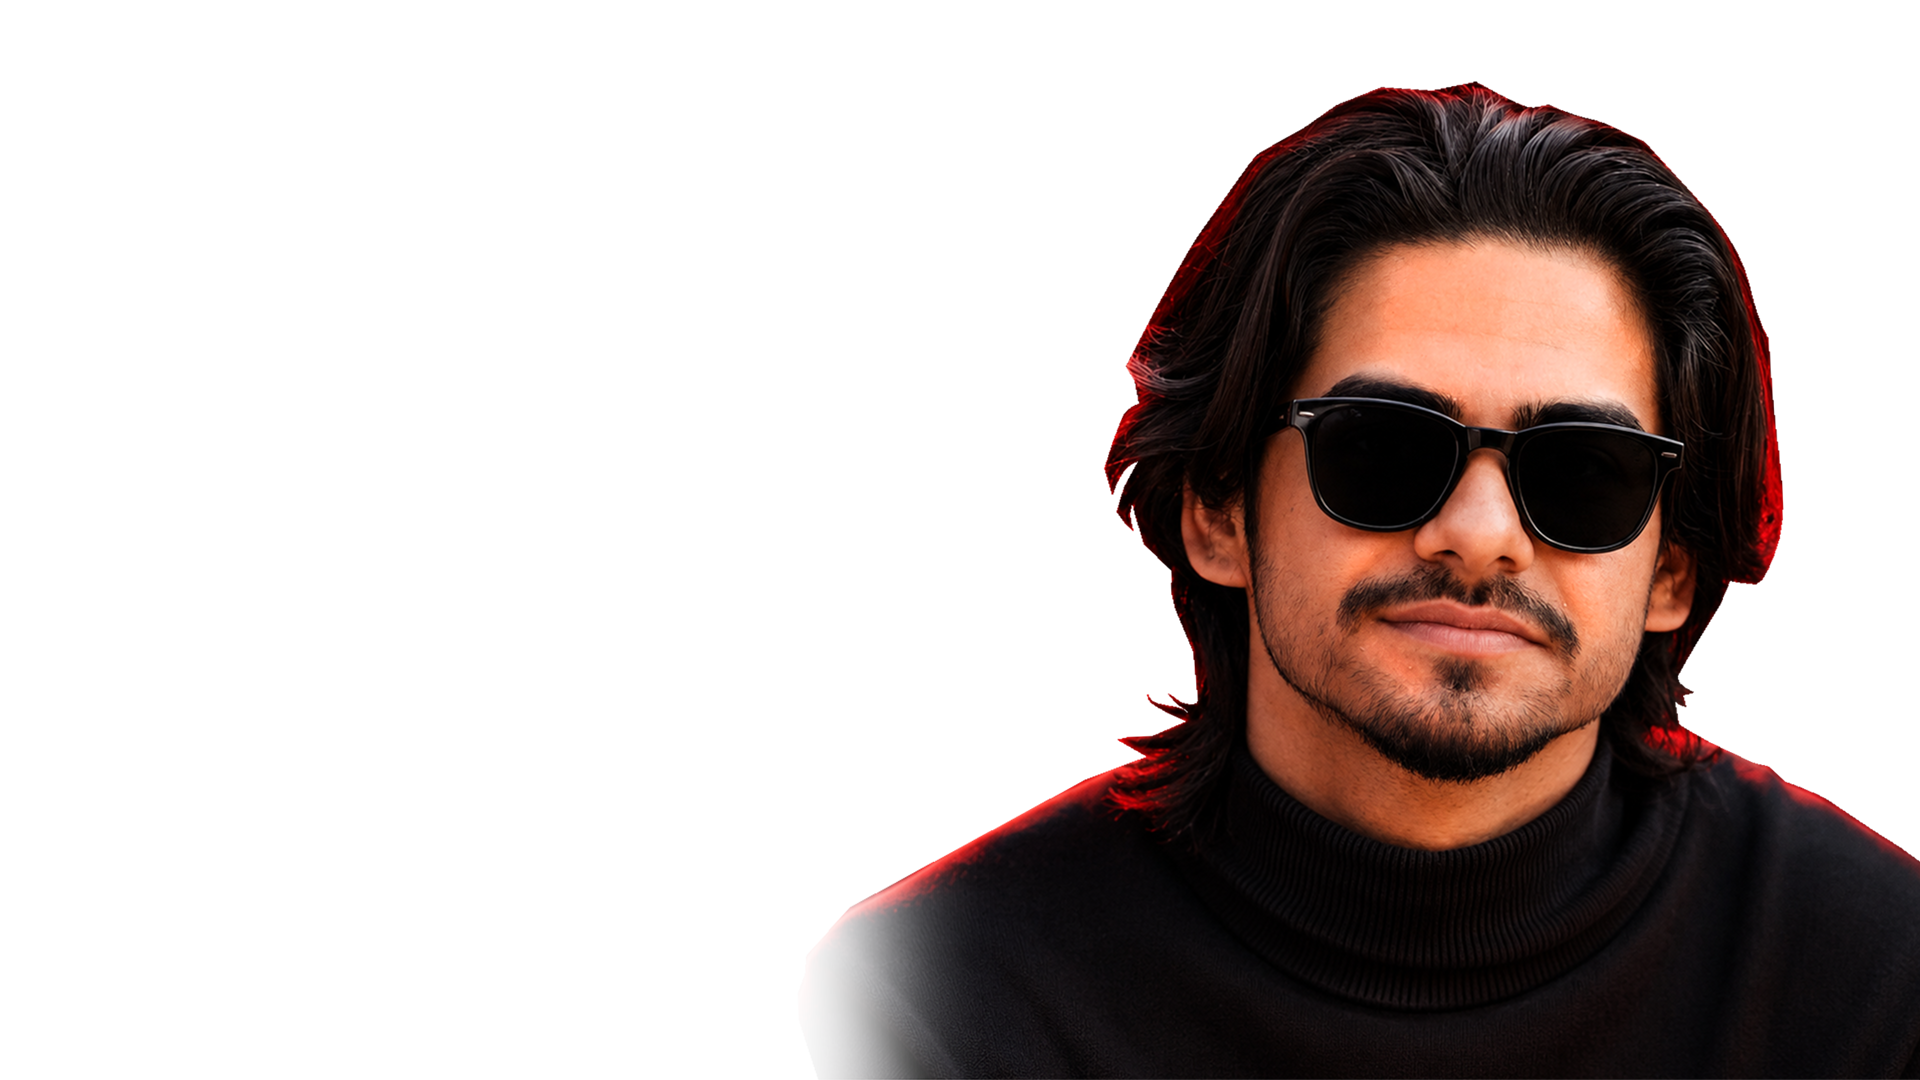
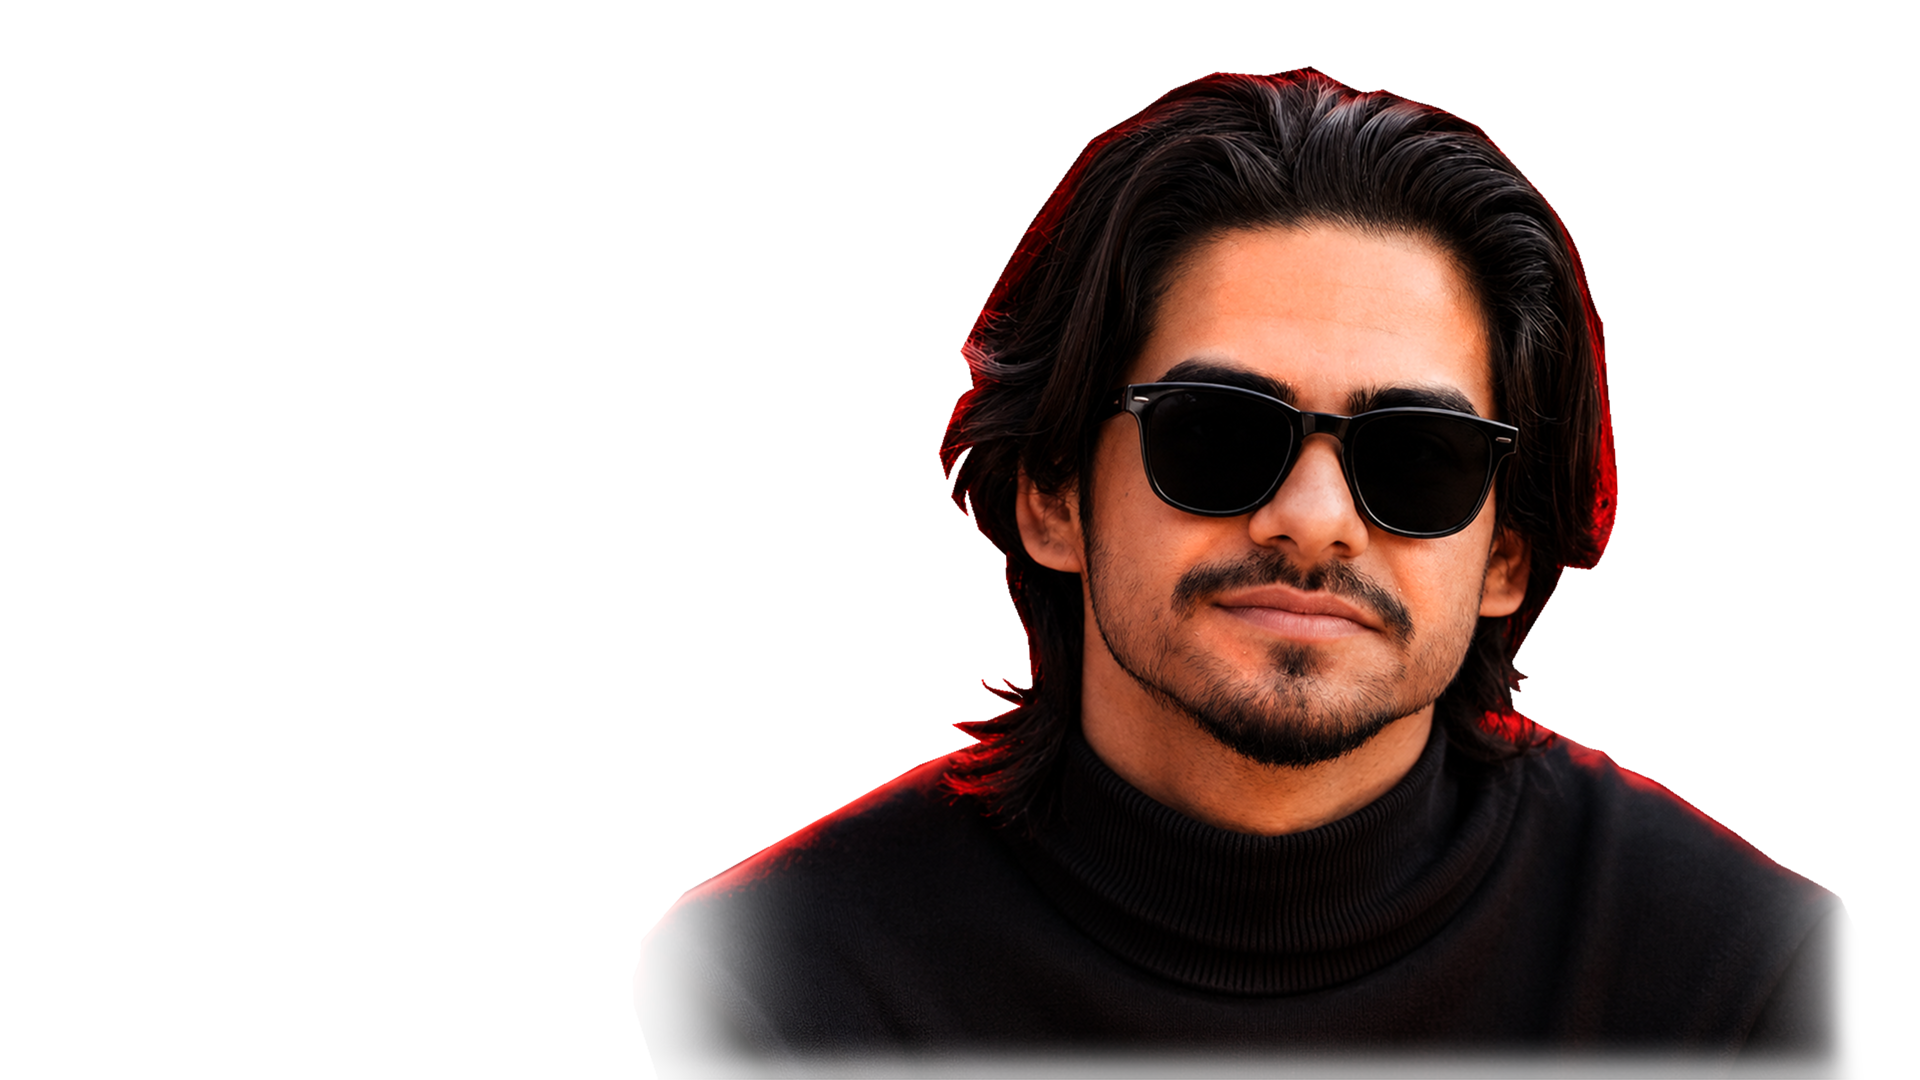
Update final responsive portfolio design

Changed region(s): [[0.3438, 0.0611, 1.0, 1.0]]

diff --git a/src/app/globals.css b/src/app/globals.css
@@ -231,11 +231,12 @@ button {
   isolation: isolate;
   overflow: hidden;
   display: grid;
-  grid-template-columns: minmax(280px, 0.72fr) minmax(420px, 1.28fr);
+  grid-template-columns: minmax(280px, 0.74fr) minmax(420px, 1.26fr);
   gap: clamp(14px, 3vw, 48px);
+  width: 100%;
   min-height: 100svh;
   align-items: center;
-  padding: 118px 0 54px max(24px, calc((100vw - 1280px) / 2));
+  padding: 118px clamp(84px, 5.8vw, 112px) 54px;
   background:
     radial-gradient(circle at 75% 39%, rgba(225, 43, 63, 0.25), transparent 25rem),
     radial-gradient(circle at 91% 44%, rgba(122, 13, 23, 0.5), transparent 30rem),
@@ -262,6 +263,7 @@ button {
 }
 
 .hero-copy {
+  z-index: 4;
   transform: translateY(-74px);
 }
 
@@ -346,7 +348,7 @@ h3 {
 .hero-copy h1 {
   margin: 18px 0 18px;
   max-width: 620px;
-  font-size: clamp(4rem, 7.4vw, 8.3rem);
+  font-size: clamp(4rem, 6.6vw, 7.4rem);
   line-height: 0.84;
 }
 
@@ -461,22 +463,21 @@ h3 {
 
 .hero-visual {
   position: relative;
-  min-height: min(760px, calc(100svh - 150px));
+  min-height: clamp(560px, calc(100svh - 150px), 760px);
   display: grid;
   place-items: center;
 }
 
 .subject-stage {
   position: relative;
-  width: min(780px, 62vw);
+  width: min(100%, 780px);
   aspect-ratio: 0.88;
   overflow: visible;
 }
 
 .hero-subject-wrap {
-  width: 100vw;
   position: absolute;
-  inset: -5% -3% -2% -80%;
+  inset: -4% -20% -2% -84%;
   filter: drop-shadow(0 38px 78px rgba(0, 0, 0, 0.72));
 }
 
@@ -502,9 +503,9 @@ h3 {
 
 .hero-subject-image {
   object-fit: cover;
-  object-position: center;
+  object-position: 80% center;
+  transform: translateX(10px) scale(1.12);
 }
-
 .subject-badge {
   right: 10%;
   bottom: 12%;
@@ -586,6 +587,7 @@ h3 {
 .hero-glass-card {
   position: absolute;
   min-width: 176px;
+  max-width: min(240px, 44%);
   pointer-events: auto;
   border-color: color-mix(in srgb, var(--line) 70%, rgba(225, 43, 63, 0.38));
   background: linear-gradient(135deg, rgba(17, 17, 17, 0.52), rgba(122, 13, 23, 0.18));
@@ -642,6 +644,7 @@ h3 {
 
 .section {
   padding: 104px max(24px, calc((100vw - 1180px) / 2));
+  overflow: hidden;
 }
 
 .section-heading {
@@ -755,7 +758,7 @@ h3 {
 
 .preview-collage {
   display: grid;
-  grid-template-columns: 1fr 0.82fr;
+  grid-template-columns: minmax(0, 1fr) minmax(0, 0.82fr);
   gap: 10px;
   min-width: 0;
   min-height: 190px;
@@ -776,6 +779,8 @@ h3 {
     repeating-linear-gradient(135deg, rgba(247, 242, 236, 0.08) 0 1px, transparent 1px 10px),
     var(--surface);
   color: var(--muted);
+  width: 100%;
+  max-width: 100%;
 }
 
 .preview-tile img,
@@ -1107,6 +1112,7 @@ h3 {
 
   .hero-section {
     gap: 20px;
+    padding-inline: clamp(24px, 6vw, 56px);
   }
 
   .hero-copy {
@@ -1114,12 +1120,16 @@ h3 {
   }
 
   .hero-visual {
-    min-height: 720px;
+    min-height: auto;
     left: auto;
   }
 
   .subject-stage {
-    width: min(700px, 92vw);
+    width: min(680px, 100%);
+  }
+
+  .hero-subject-wrap {
+    inset: -4% -4% -1% -30%;
   }
 
   .floating-card-stack {
@@ -1141,6 +1151,7 @@ h3 {
     position: relative;
     inset: auto !important;
     min-width: 0;
+    max-width: none;
     animation: none;
   }
 
@@ -1157,6 +1168,7 @@ h3 {
   .site-header {
     top: 10px;
     width: calc(100% - 20px);
+    height: 58px;
   }
 
   .logo-text {
@@ -1166,8 +1178,7 @@ h3 {
   .hero-section {
     gap: 28px;
     min-height: auto;
-    padding-top: 118px;
-    padding-bottom: 56px;
+    padding: 104px 20px 56px;
   }
 
   .hero-copy h1 {
@@ -1209,10 +1220,14 @@ h3 {
   }
 
   .subject-stage {
-    width: min(440px, 96vw);
+    width: min(420px, 100%);
     left: auto;
     margin: 0 auto;
     overflow: visible;
+  }
+
+  .hero-subject-wrap {
+    inset: -2% -2% 0 -18%;
   }
 
   .subject-badge {
@@ -1225,7 +1240,7 @@ h3 {
     display: grid;
     grid-template-columns: repeat(2, minmax(0, 1fr));
     width: 100%;
-    max-width: calc(100vw - 48px);
+    max-width: none;
     overflow: hidden;
     padding-bottom: 0;
     contain: layout paint;

diff --git a/src/components/Hero.tsx b/src/components/Hero.tsx
@@ -97,6 +97,7 @@ export function Hero() {
               alt="Ganesh Kharel"
               fill
               priority
+              unoptimized
               sizes="(max-width: 768px) 92vw, 48vw"
               className="hero-subject-image"
             />